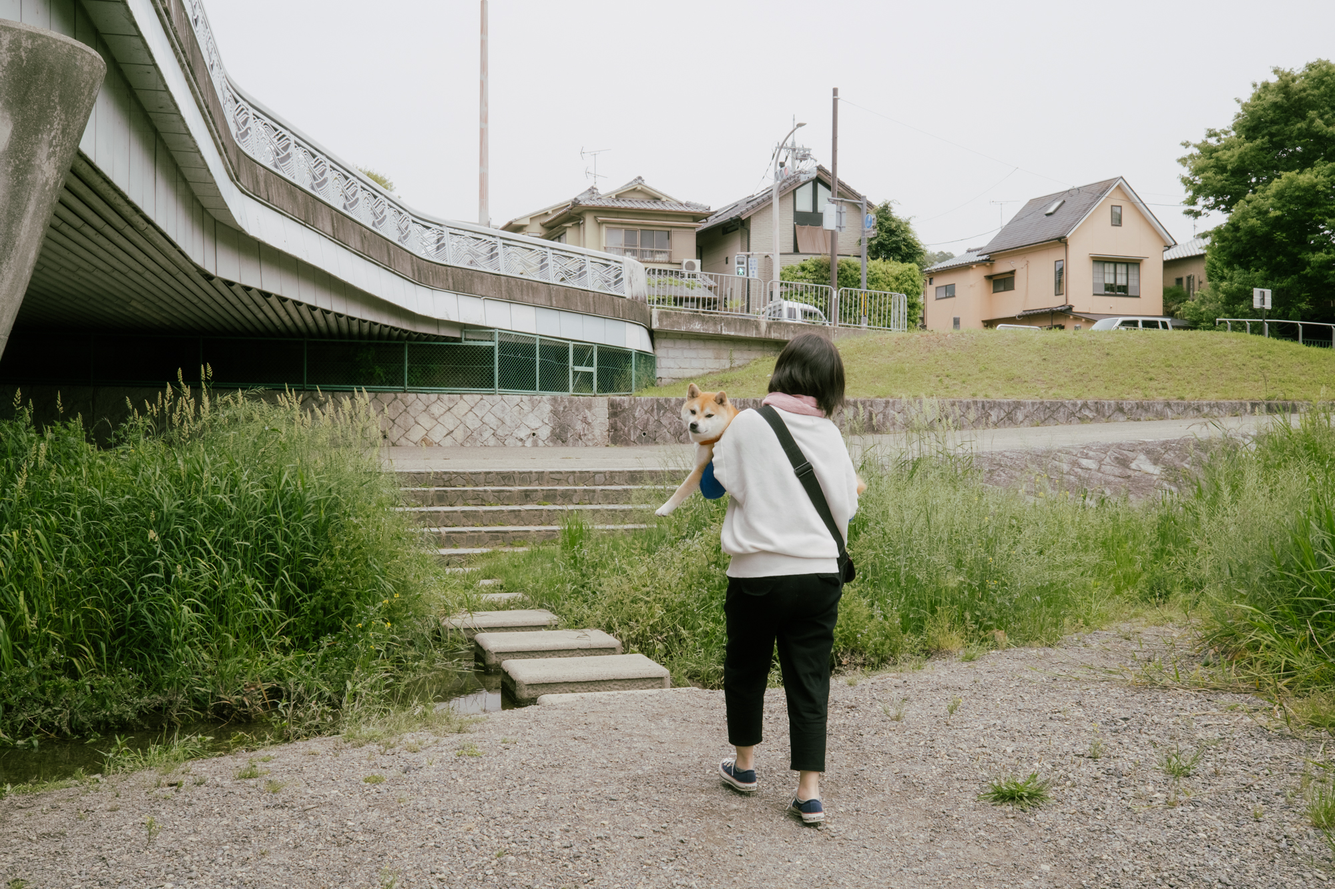
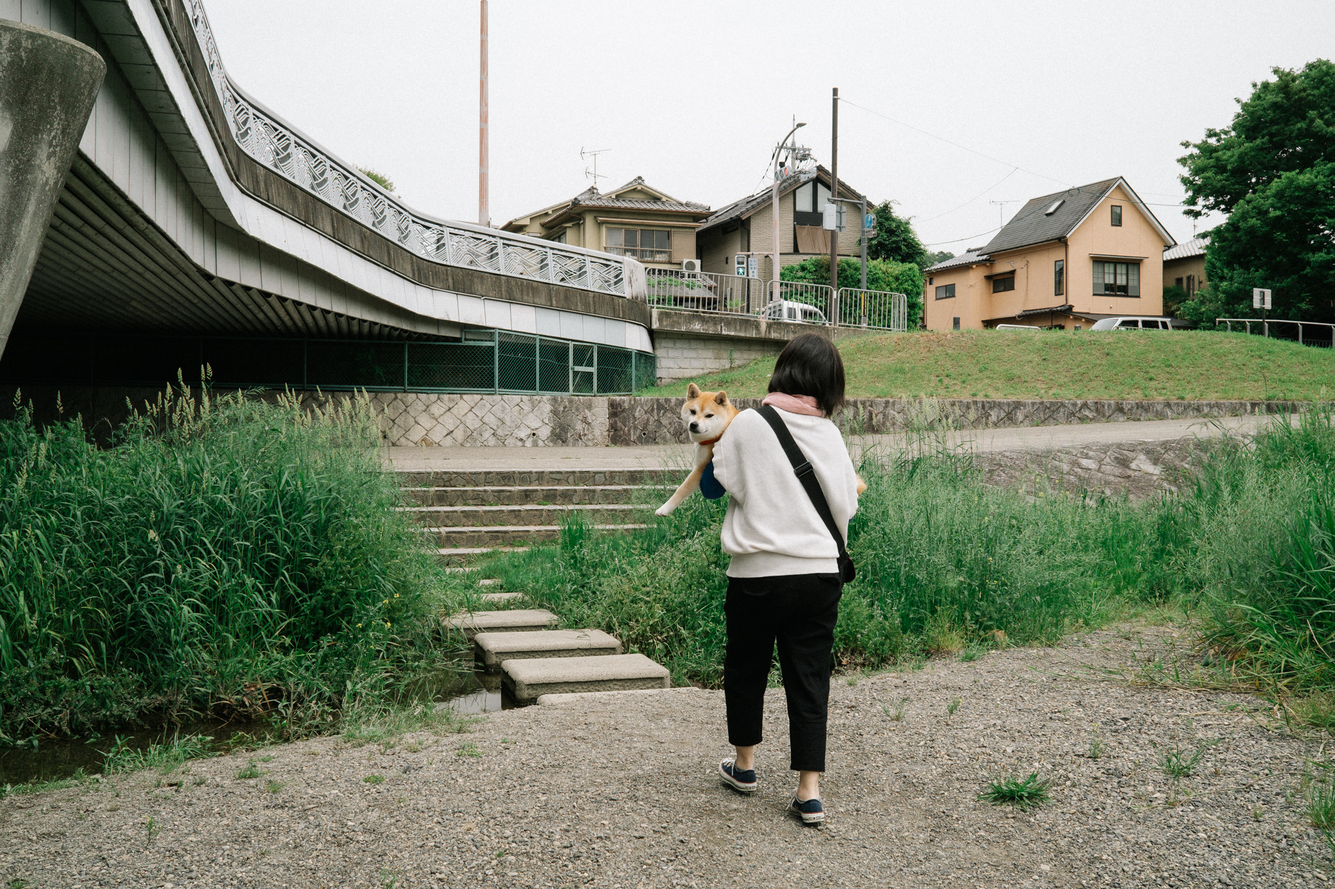
Content update.
Updated and added some new photos.

diff --git a/pages/photography/mabutanoura.html b/pages/photography/mabutanoura.html
@@ -1,10 +1,12 @@
 <!DOCTYPE html>
 <html lang="en">
+
 <head>
-<meta charset="UTF-8">
-<meta name="viewport" content="width=device-width, initial-scale=1.0">
-<link rel="icon" type="image/image/svg+xml" href="../../assets/favicon.svg">
-<title>hugo anaya – Photography – mabuta no ura</title>
+  <meta charset="UTF-8">
+  <meta name="viewport" content="width=device-width, initial-scale=1.0">
+  <link rel="icon" type="image/image/svg+xml" href="../../assets/favicon.svg">
+  <title>hugo anaya – Photography – mabuta no ura</title>
+
 <style>
   :root {
     --gap: 16px;
@@ -143,12 +145,16 @@
   <div class="masonry-grid" id="gallery">
     <div class="masonry-item auto-size"><img loading="lazy" src="assets/mabutanoura/mabutanoura-22.jpg" alt=""></div>
     <div class="masonry-item auto-size"><img loading="lazy" src="assets/mabutanoura/mabutanoura-23.jpg" alt=""></div>
+    <div class="masonry-item auto-size"><img loading="lazy" src="assets/mabutanoura/mabutanoura-50.jpg" alt=""></div>
+    <div class="masonry-item auto-size"><img loading="lazy" src="assets/mabutanoura/mabutanoura-51.jpg" alt=""></div>
     <div class="masonry-item auto-size"><img loading="lazy" src="assets/mabutanoura/mabutanoura-24.jpg" alt=""></div>
     <div class="masonry-item auto-size"><img loading="lazy" src="assets/mabutanoura/mabutanoura-25.jpg" alt=""></div>
     <div class="masonry-item auto-size"><img loading="lazy" src="assets/mabutanoura/mabutanoura-21.jpg" alt=""></div>
     <div class="masonry-item auto-size"><img loading="lazy" src="assets/mabutanoura/mabutanoura-31.jpg" alt=""></div>
     <div class="masonry-item auto-size"><img loading="lazy" src="assets/mabutanoura/mabutanoura-27.jpg" alt=""></div>
     <div class="masonry-item auto-size"><img loading="lazy" src="assets/mabutanoura/mabutanoura-26.jpg" alt=""></div>
+    <div class="masonry-item auto-size"><img loading="lazy" src="assets/mabutanoura/mabutanoura-52.jpg" alt=""></div>
+    <div class="masonry-item auto-size"><img loading="lazy" src="assets/mabutanoura/mabutanoura-53.jpg" alt=""></div>
     <div class="masonry-item auto-size"><img loading="lazy" src="assets/mabutanoura/mabutanoura-28.jpg" alt=""></div>
     <div class="masonry-item auto-size"><img loading="lazy" src="assets/mabutanoura/mabutanoura-30.jpg" alt=""></div>
     <div class="masonry-item auto-size"><img loading="lazy" src="assets/mabutanoura/mabutanoura-29.jpg" alt=""></div>
@@ -190,6 +196,8 @@
     <div class="masonry-item auto-size"><img loading="lazy" src="assets/mabutanoura/mabutanoura-20.jpg" alt=""></div>
     <div class="masonry-item auto-size"><img loading="lazy" src="assets/mabutanoura/mabutanoura-18.jpg" alt=""></div>
     <div class="masonry-item auto-size"><img loading="lazy" src="assets/mabutanoura/mabutanoura-17.jpg" alt=""></div>
+    <div class="masonry-item auto-size"><img loading="lazy" src="assets/mabutanoura/mabutanoura-54.jpg" alt=""></div>
+    <div class="masonry-item auto-size"><img loading="lazy" src="assets/mabutanoura/mabutanoura-55.jpg" alt=""></div>
     <!--<div class="masonry-item copy-block">
       <p>Kyo no Kyoto – "today's Kyoto" – is an ongoing project documenting the city I've called home for the past 8 years.</p>
     </div>-->

diff --git a/pages/photography/kyonokyoto.html b/pages/photography/kyonokyoto.html
@@ -142,7 +142,7 @@
   <div class="masonry-grid" id="gallery">
     <div class="masonry-item auto-size"><img loading="lazy" src="assets/kyonokyoto/kyonokyoto-18.jpg" alt=""></div>
     <div class="masonry-item auto-size"><img loading="lazy" src="assets/kyonokyoto/kyonokyoto-14.jpg" alt=""></div>
-    <div class="masonry-item auto-size"><img loading="lazy" src="assets/kyonokyoto/kyonokyoto-25.jpg" alt=""></div>
+    <div class="masonry-item auto-size"><img loading="lazy" src="assets/kyonokyoto/kyonokyoto-9.jpg" alt=""></div>
     <div class="masonry-item auto-size"><img loading="lazy" src="assets/kyonokyoto/kyonokyoto-26.jpg" alt=""></div>
     <div class="masonry-item auto-size"><img loading="lazy" src="assets/kyonokyoto/kyonokyoto-39.jpg" alt=""></div>
     <div class="masonry-item auto-size"><img loading="lazy" src="assets/kyonokyoto/kyonokyoto-30.jpg" alt=""></div>
@@ -158,7 +158,6 @@
     <div class="masonry-item auto-size"><img loading="lazy" src="assets/kyonokyoto/kyonokyoto-32.jpg" alt=""></div>
     <div class="masonry-item auto-size"><img loading="lazy" src="assets/kyonokyoto/kyonokyoto-6.jpg" alt=""></div>
     <div class="masonry-item auto-size"><img loading="lazy" src="assets/kyonokyoto/kyonokyoto-7.jpg" alt=""></div>
-    <div class="masonry-item auto-size"><img loading="lazy" src="assets/kyonokyoto/kyonokyoto-9.jpg" alt=""></div>
     <div class="masonry-item auto-size"><img loading="lazy" src="assets/kyonokyoto/kyonokyoto-12.jpg" alt=""></div>
     <div class="masonry-item auto-size"><img loading="lazy" src="assets/kyonokyoto/kyonokyoto-22.jpg" alt=""></div>
     <div class="masonry-item auto-size"><img loading="lazy" src="assets/kyonokyoto/kyonokyoto-23.jpg" alt=""></div>

diff --git a/pages/404.html b/pages/404.html
@@ -28,18 +28,20 @@
     height: 100vh;
     overflow: hidden;
     margin: 0 auto;
-    background: #FFF;
+    background: #F9F9F9;
     cursor: url("../assets/cursor.svg") 5 5, default;
   }
 
   a {
     cursor: url("../assets/cursorhover.svg") 5 5, pointer;
     text-decoration: none;
-    color: #FF7900;
+    color: #A73A3F;
+    transition: .2s ease-in-out all;
   }
   
-  a:visited {
-    color: #FF7900;
+  a:hover {
+    color: inherit;
+    transition: .2s ease-in-out all;
   }
 
 
@@ -52,12 +54,12 @@
     height: 3vh;
   }
 
-  .topbar {
+  .notice {
     width: 50vw;
     height: 15vh;
     position: absolute;
-    background: #fff;
     font-family: "Geist Pixel Circle";
+    color: #2B2B2B;
     font-size: 5rem;
     text-transform: uppercase;
     margin-top: 34vh;
@@ -80,7 +82,7 @@
     <a href="../index.html"><img src="../assets/logo.svg"></a>
   </div>
 
-  <div class="topbar">THE PAGE YOU ARE LOOKING FOR IS NOT HERE. <a href="../index.html">GO BACK</a></div>
+  <div class="notice">THE PAGE YOU ARE LOOKING FOR IS NOT HERE. <a href="../index.html">GO BACK</a></div>
 
 </body>
 </html>
